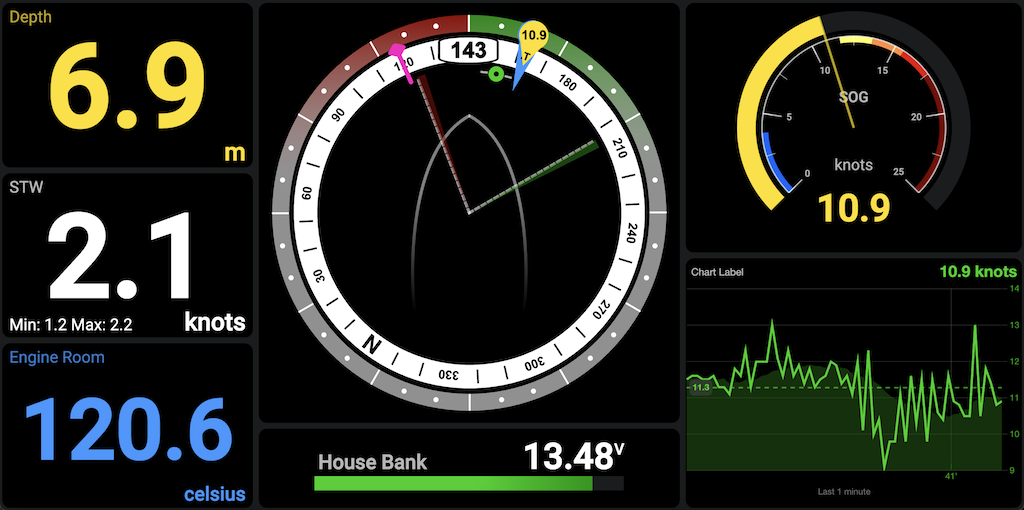
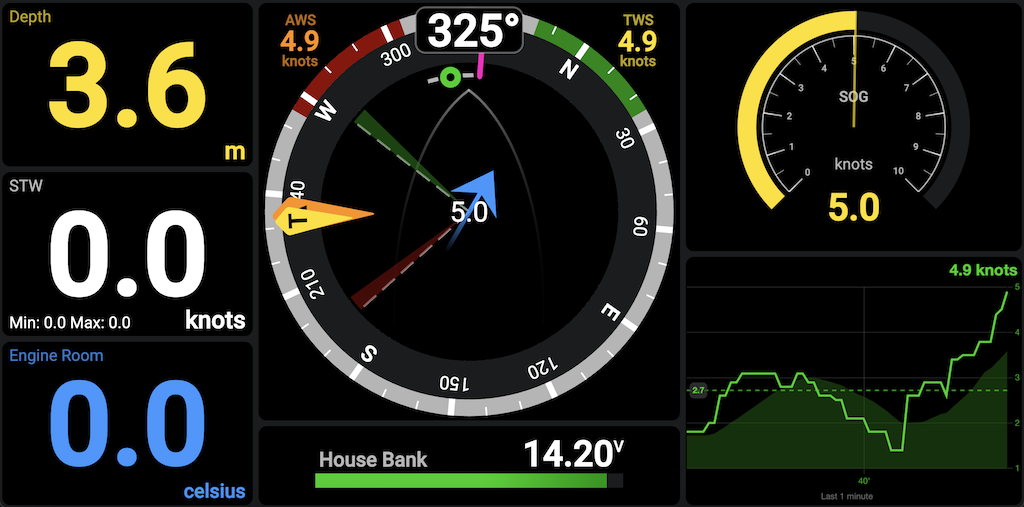
Update version to 3.3.0 and enhance CHANGELOG (#690)

diff --git a/CHANGELOG.md b/CHANGELOG.md
@@ -1,3 +1,22 @@
+# V 3.3.0
+## New features
+* New autopilot widget with responsive UI.
+* New Wind Steering widget UI:
+  * Added Current/Drift and Set.
+  * Improved wind speeds visibility.
+  * Apparent wind used for tack angle and sector calculation.
+* Widget server plugin dependency validation and UI enhancements.
+## Improvements
+* Add support for optional and hardcoded paths in widgets increasing flexibility.
+* Add days:hours:minutes:Seconds to Time unit format options. Fixes #682.
+* Reduce package size.
+* Support for Date values provided in metadata. Fixes #665. Special thanks to @emonty
+* Add code linter. Special thanks to @emonty
+* Add project documentation.
+## Fixes
+* Fix bouncy slider when selecting non-default value display. Fixes #671
+* Position type paths should not be converted to radian. Fixes #670
+* Numeric Widget has scrollbar on resize for some browsers. Fixes #640
 # V 3.2.0
 ## New features
 * Add automatic reconnection on mobile OS app resume
